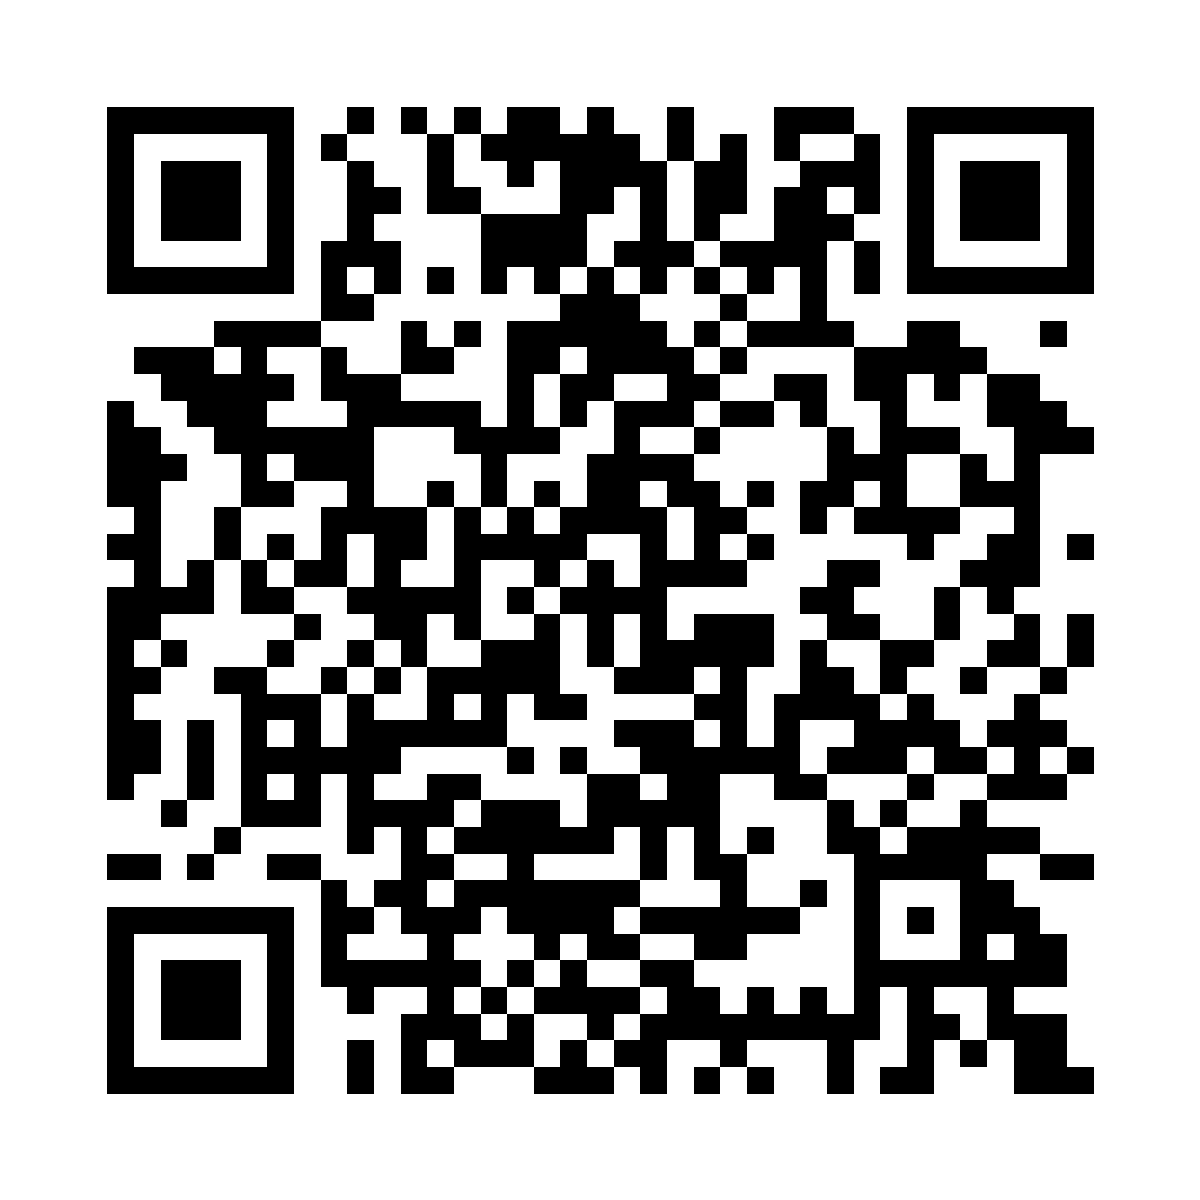
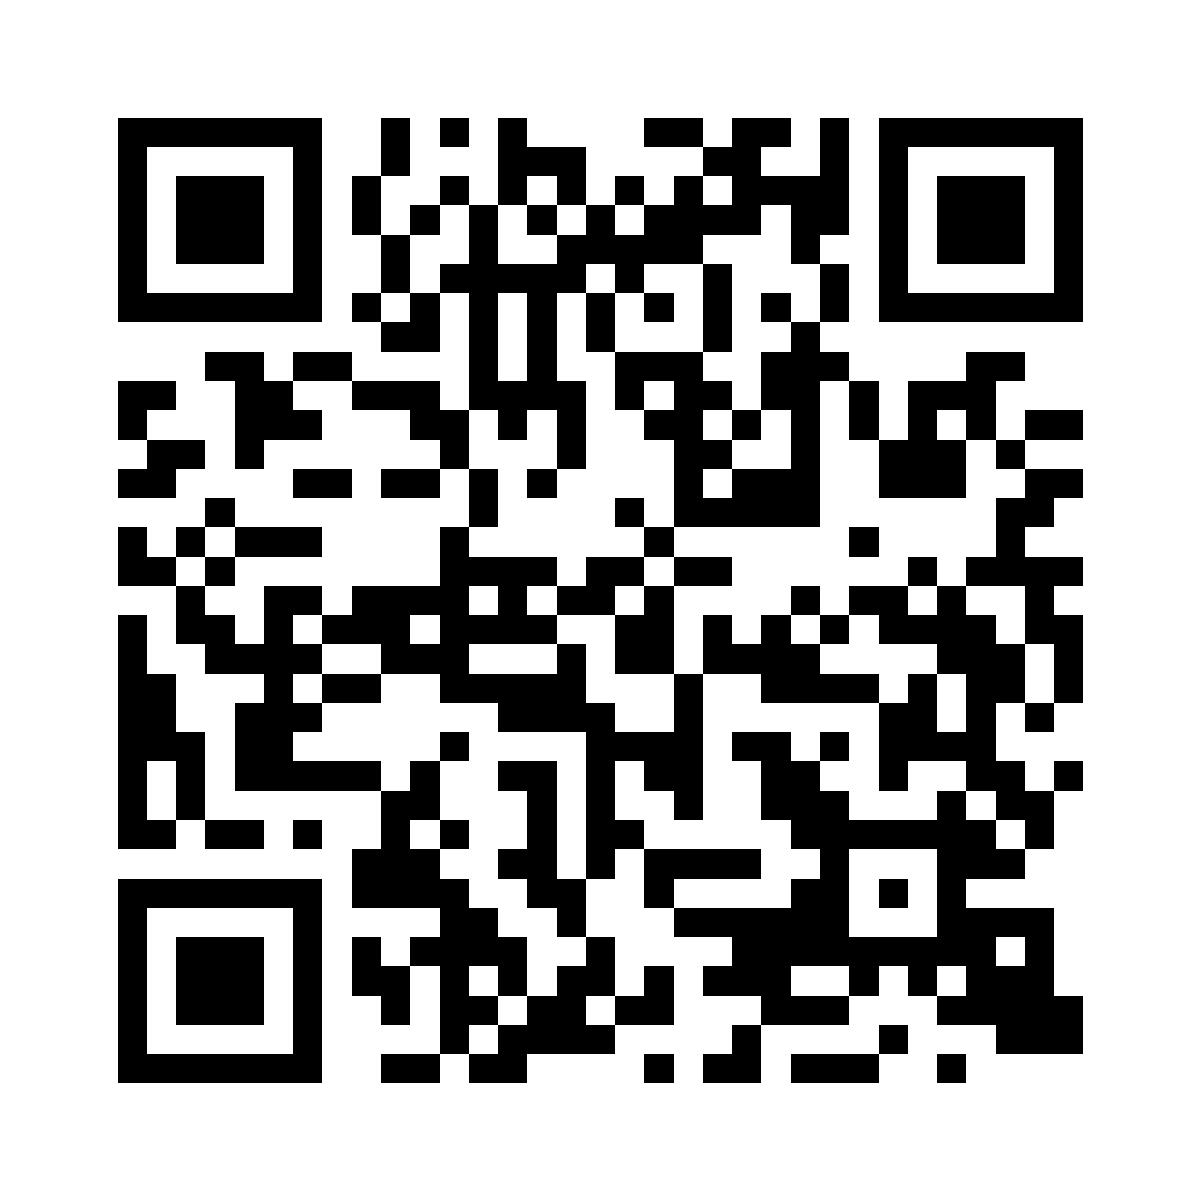
docs: 公開 URL を、GitHub とつながった planterai.vercel.app に替える
これまでの planter-ai-zeta.vercel.app は地引さんの Vercel から CLI で
手動デプロイしていて、9/8 から更新されていなかった。中村の Vercel で
リポジトリとつないだ新しいプロジェクトは、main へのマージで自動で
更新される。README と QR コード（画像と生成スクリプト）の行き先を替える。

Claude-Session: https://claude.ai/code/session_01DDQnHFMbs9MTLkDB3mvfon

diff --git a/README.md b/README.md
@@ -15,7 +15,7 @@ LINE
 にある。Viteでローカル起動と静的ビルドを行い、ルートの `vercel.json`
 からVercelへデプロイする。
 
-公開URL：[https://planter-ai-zeta.vercel.app/](https://planter-ai-zeta.vercel.app/)
+公開URL：[https://planterai.vercel.app/](https://planterai.vercel.app/)
 
 ```sh
 cd site
